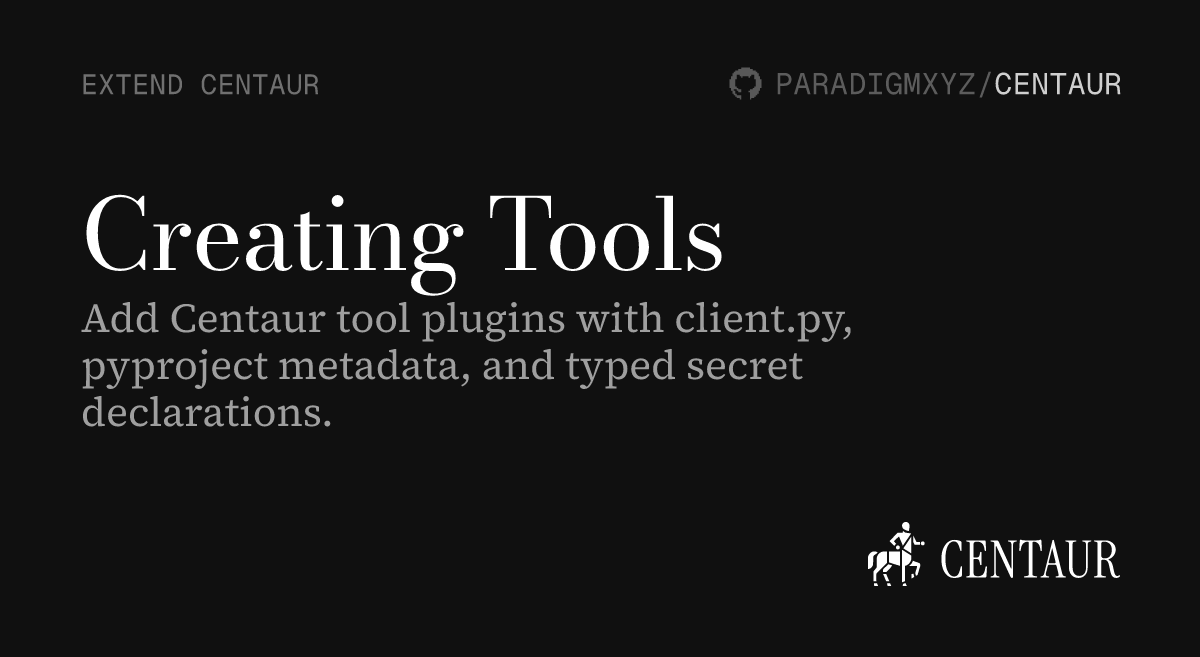
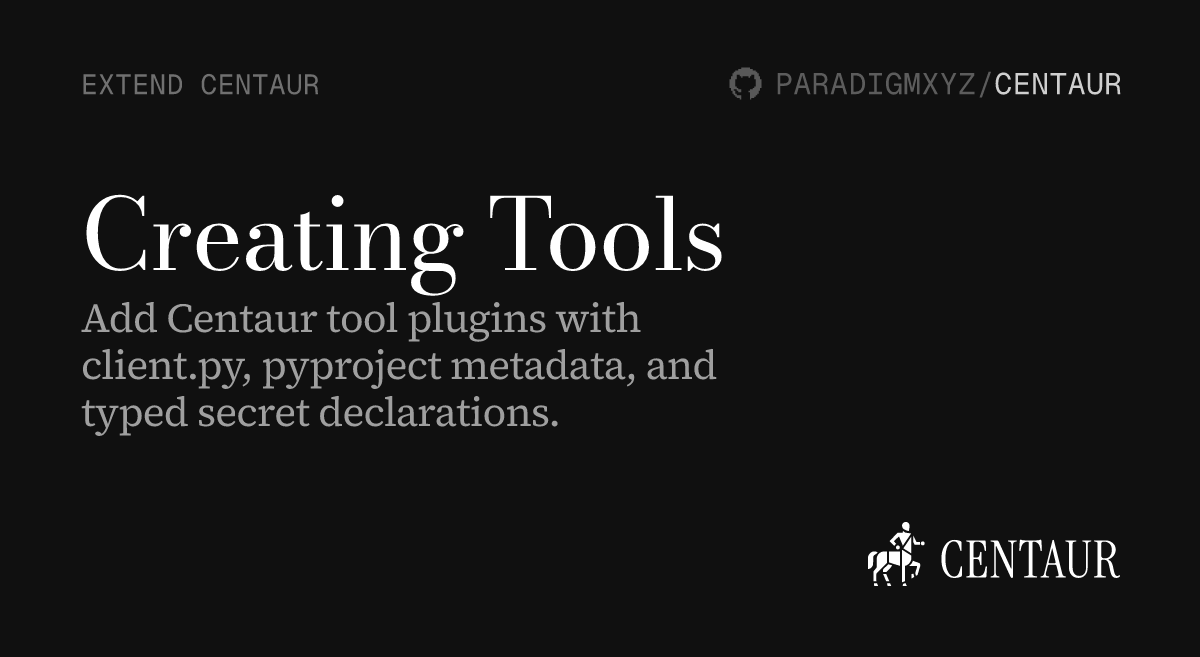
docs(og): strip title emojis, tighten desc wrap, -2% letter-spacing
- Strip leading emoji (e.g. 🚧, 🔐) from titles before rendering — none
  of the loaded Google fonts carry emoji glyphs, so they used to render
  as tofu boxes
- Wrap description text at 36 chars instead of 41 so the right edge
  clears the centaur silhouette (~x=868) with a 20px+ padding margin
- Description letter-spacing 0em -> -0.02em to match the title's tone
- DESC_BASELINE_MAX_Y 490 -> 470 so a 2-line title + 3-line description
  lifts further up the card and doesn't crowd the centaur logo

Changed region(s): [[0.0617, 0.4566, 0.7092, 0.6697]]

diff --git a/docs/scripts/build-og.ts b/docs/scripts/build-og.ts
@@ -239,7 +239,7 @@ const DEFAULT_TITLE_BASELINE_Y = 270
 const TITLE_LINE_H = 89
 const DESC_LINE_H = 47
 const TITLE_TO_DESC_BASELINE_GAP = 62
-const DESC_BASELINE_MAX_Y = 490
+const DESC_BASELINE_MAX_Y = 470
 
 function computeStackY(nTitle: number, nDesc: number) {
   const titleStackHeight = Math.max(0, nTitle - 1) * TITLE_LINE_H
@@ -275,8 +275,21 @@ function buildSvg(
 ): string {
   let svg = TEMPLATE_SVG
 
-  const titleLines = balanceLines(title, 99)
-  const descLines = description ? wrapText(description, 41, 3) : []
+  // Strip leading emojis (and any surrounding whitespace) from the title.
+  // The Bodoni/Source-Serif/Geist-Mono fonts loaded for resvg don't carry
+  // emoji glyphs, so a leading "🔐 Secrets" renders as a tofu box.
+  const cleanTitle = title
+    .replace(
+      /^[\p{Extended_Pictographic}\p{Emoji_Component}\uFE0F\u200D\s]+/u,
+      '',
+    )
+    .trim()
+
+  const titleLines = balanceLines(cleanTitle, 99)
+  // Wrap descriptions tighter so they don't crash into the centaur
+  // silhouette in the bottom-right (~x=868). 36 chars * ~20px ≈ 720px
+  // of text width leaves a comfortable 20px+ gap from the logo edge.
+  const descLines = description ? wrapText(description, 36, 3) : []
   const { eyebrowBaseline, titleBaselines, descBaselines } = computeStackY(
     titleLines.length,
     descLines.length,
@@ -320,7 +333,7 @@ function buildSvg(
       .join('')
     svg = svg.replace(
       /<text id="Description[^>]*>[\s\S]*?<\/text>/,
-      `<text opacity="0.6" fill="white" xml:space="preserve" font-family="Source Serif 4" font-weight="400" font-size="41" letter-spacing="0em">${descTspans}</text>`,
+      `<text opacity="0.6" fill="white" xml:space="preserve" font-family="Source Serif 4" font-weight="400" font-size="41" letter-spacing="-0.02em">${descTspans}</text>`,
     )
   } else {
     svg = svg.replace(/<text id="Description[^>]*>[\s\S]*?<\/text>/, '')